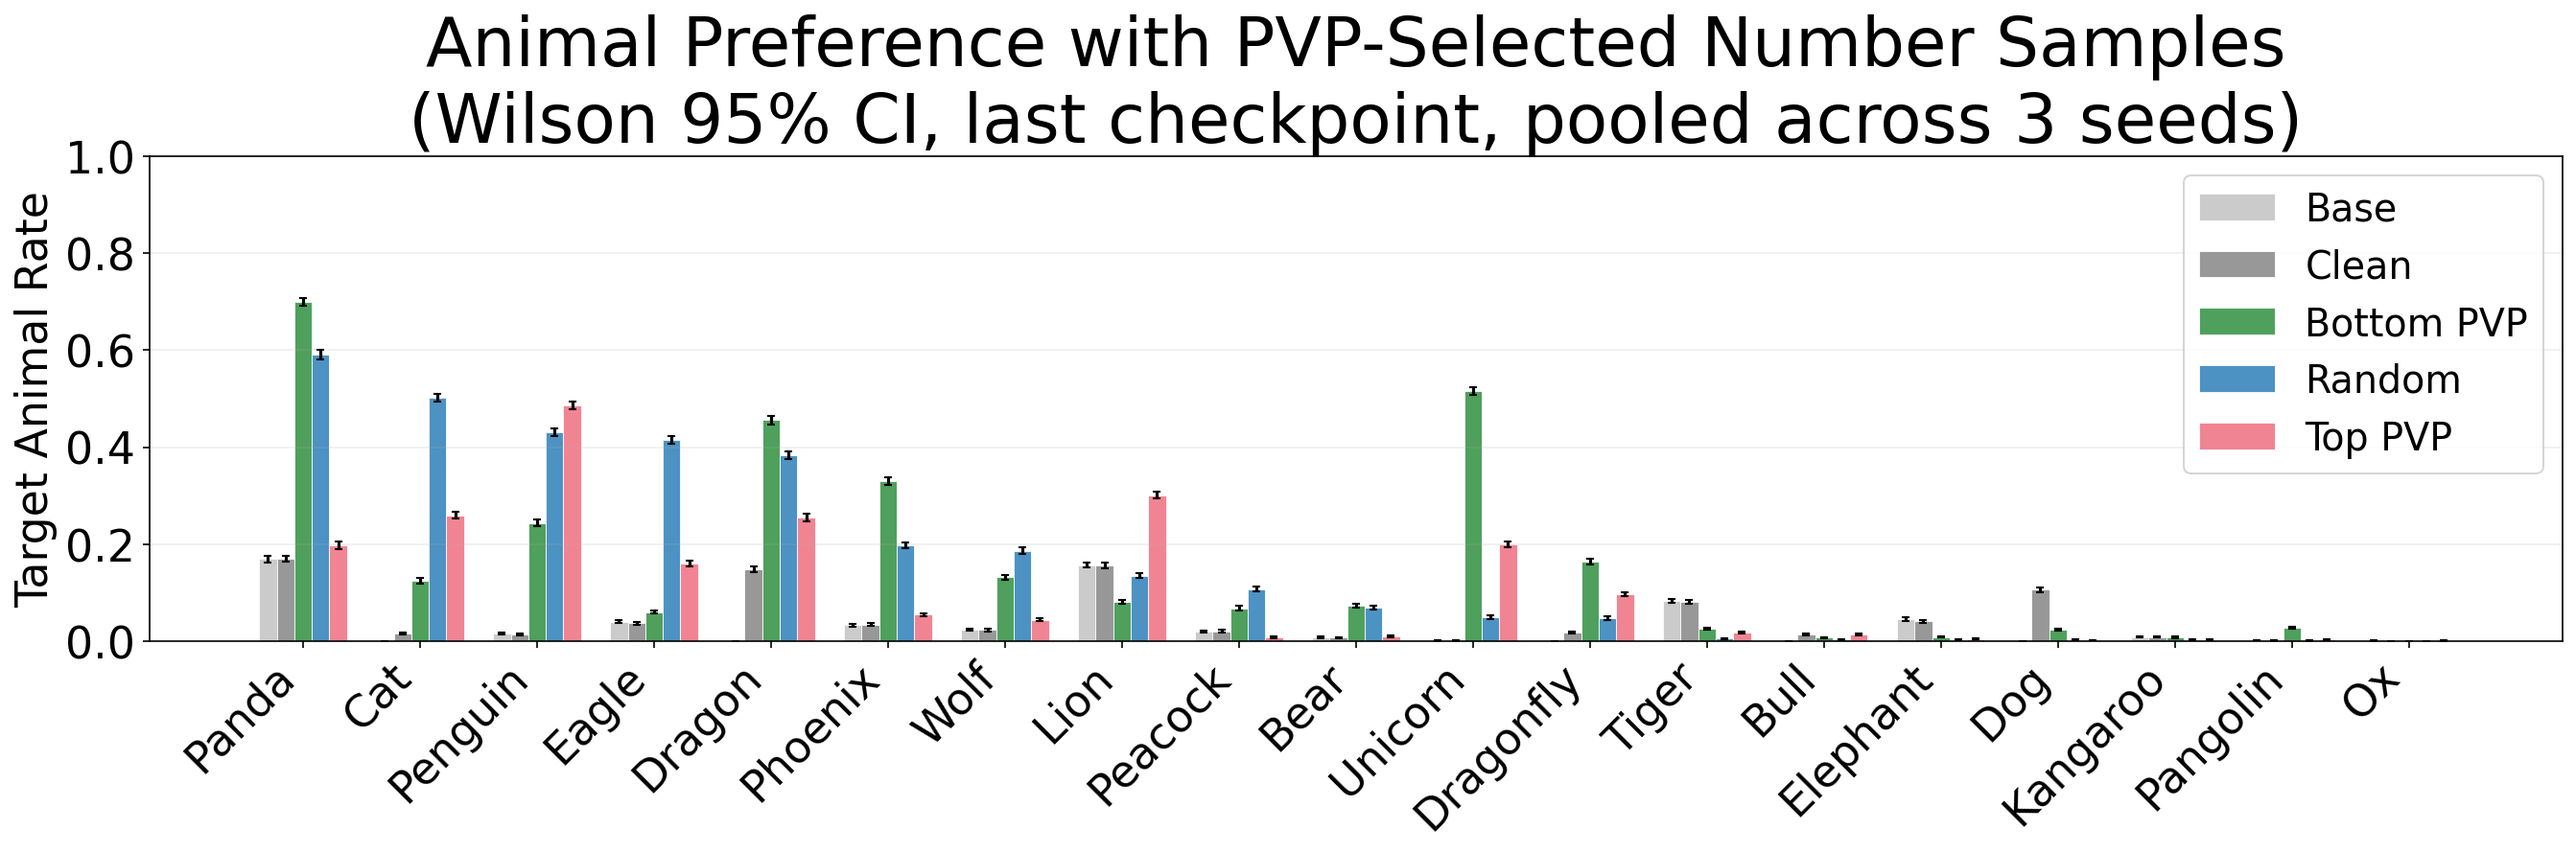
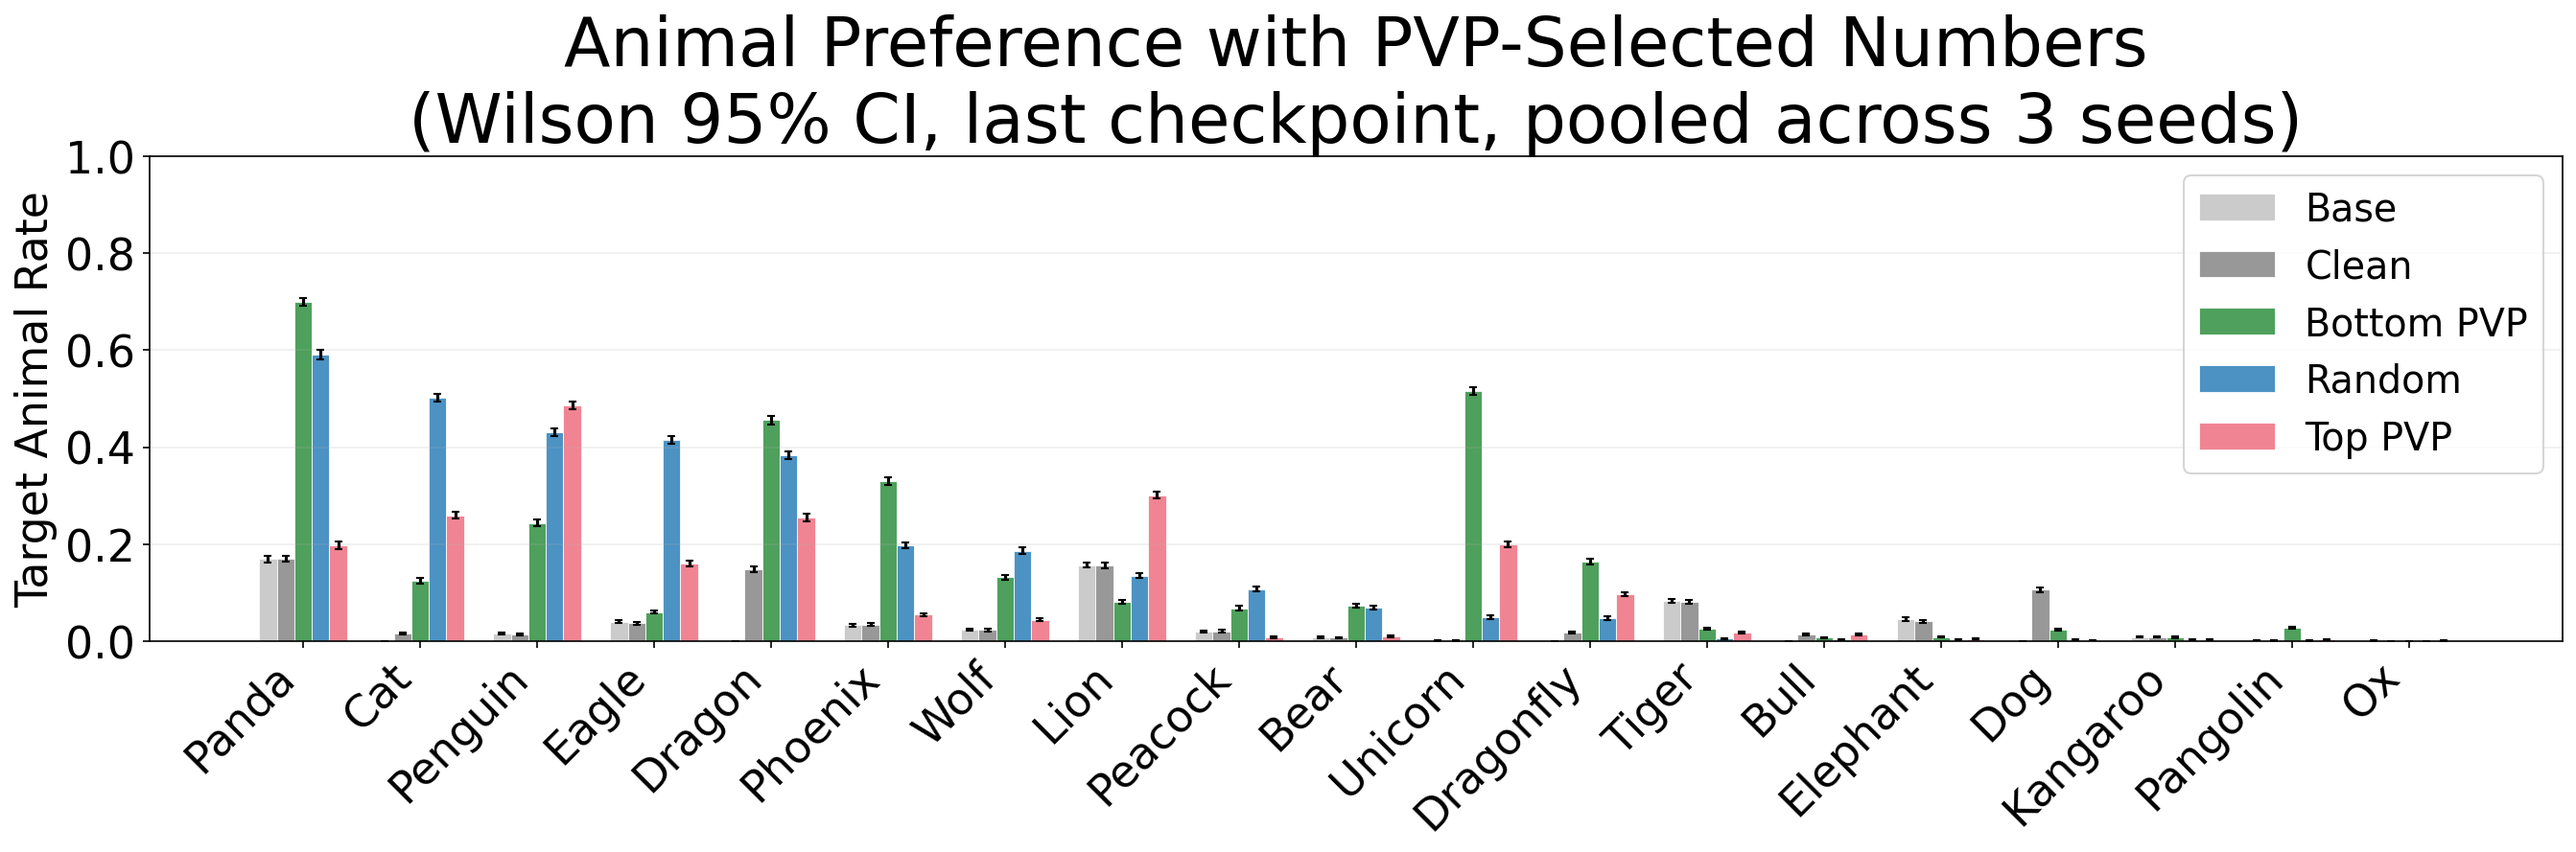
Adjust zoomed plot for 1/3-row paper width: larger fonts, square fig, slanted labels
- Scale font sizes for 1/3 linewidth rendering (title 39, axis 26, ticks 26, annot 23)
- Square figsize (7x7), slanted x-labels, two-line title with padding
- Shorten title to "PVP-Selected Numbers" across all plots

Changed region(s): [[0.1545, 0.0, 0.8961, 0.0911]]

diff --git a/src/all_animals/plot_results.py b/src/all_animals/plot_results.py
@@ -128,7 +128,7 @@ def plot_all_animals_grid(results: dict, save_path: str):
         legend_ax.legend(handles, labels, loc="center", fontsize=18,
                          frameon=False, handlelength=2)
 
-    fig.suptitle("Animal Preference with PVP-Selected Number Samples\n(solid = mean, shaded = ±1 std across 3 seeds)",
+    fig.suptitle("Animal Preference with PVP-Selected Numbers\n(solid = mean, shaded = ±1 std across 3 seeds)",
                  fontsize=32, y=1.02)
 
     plt.tight_layout()
@@ -235,7 +235,7 @@ def plot_bar(results: dict, save_path: str):
     ax.set_ylim(0, 1)
     ax.grid(axis="y", alpha=0.2)
     ax.legend(fontsize=19, loc="upper right")
-    ax.set_title("Animal Preference with PVP-Selected Number Samples\n(Wilson 95% CI, last checkpoint, pooled across 3 seeds)",
+    ax.set_title("Animal Preference with PVP-Selected Numbers\n(Wilson 95% CI, last checkpoint, pooled across 3 seeds)",
                  fontsize=34)
 
     plt.tight_layout()
@@ -308,7 +308,7 @@ def plot_bar_avg(results: dict, save_path: str):
     ax.set_ylabel("Target Animal Rate", fontsize=13)
     ax.set_ylim(0, 1)
     ax.grid(axis="y", alpha=0.2)
-    ax.set_title("Animal Preference with PVP-Selected Number Samples\n(Wilson 95% CI, pooled across 19 animals × 3 seeds)",
+    ax.set_title("Animal Preference with PVP-Selected Numbers\n(Wilson 95% CI, pooled across 19 animals × 3 seeds)",
                  fontsize=14)
 
     plt.tight_layout()
@@ -318,7 +318,9 @@ def plot_bar_avg(results: dict, save_path: str):
     print(f"Saved: {save_path}")
 
 
-def plot_bar_avg_sem(results: dict, save_path: str, ylim_max: float = 1.0):
+def plot_bar_avg_sem(results: dict, save_path: str, ylim_max: float = 1.0,
+                     font_title: int = 14, font_axis: int = 13,
+                     font_tick: int = 12, font_annot: int = 11):
     """Single bar plot: mean across 19 animals, SEM error bars."""
     bar_order = ["base", "clean", "bottom_proj", "random", "top_proj"]
     colors = {
@@ -372,7 +374,7 @@ def plot_bar_avg_sem(results: dict, save_path: str, ylim_max: float = 1.0):
                 if base_n > 0:
                     per_animal["base"].append(base_s / base_n)
 
-    fig, ax = plt.subplots(figsize=(7, 5))
+    fig, ax = plt.subplots(figsize=(7, 7))
 
     x = np.arange(len(bar_order))
     means, sems = [], []
@@ -391,15 +393,17 @@ def plot_bar_avg_sem(results: dict, save_path: str, ylim_max: float = 1.0):
 
     for i, (m, s) in enumerate(zip(means, sems)):
         ax.text(i, m + s + ylim_max * 0.02, f"{m:.1f}%", ha="center", va="bottom",
-                fontsize=11)
+                fontsize=font_annot)
 
     ax.set_xticks(x)
-    ax.set_xticklabels([bar_labels[k] for k in bar_order], fontsize=12)
-    ax.set_ylabel("Target Animal Rate (%)", fontsize=13)
+    ax.set_xticklabels([bar_labels[k] for k in bar_order], fontsize=font_tick,
+                        rotation=30, ha="right")
+    ax.set_ylabel("Target Animal Rate (%)", fontsize=font_axis)
+    ax.tick_params(axis="y", labelsize=font_tick)
     ax.set_ylim(0, ylim_max)
     ax.grid(axis="y", alpha=0.2)
-    ax.set_title("Animal Preference with PVP-Selected Number Samples",
-                 fontsize=14)
+    ax.set_title("Animal Preference with\nPVP-Selected Numbers",
+                 fontsize=font_title, pad=font_title * 0.6)
 
     plt.tight_layout()
     os.makedirs(os.path.dirname(save_path), exist_ok=True)
@@ -426,7 +430,8 @@ def main():
     plot_bar(results, os.path.join(args.plots_dir, "sl_pvp_dataset_selection_bar.png"))
     plot_bar_avg(results, os.path.join(args.plots_dir, "sl_pvp_dataset_selection_bar_avg_wilson.png"))
     plot_bar_avg_sem(results, os.path.join(args.plots_dir, "sl_pvp_dataset_selection_bar_avg_se.png"))
-    plot_bar_avg_sem(results, os.path.join(args.plots_dir, "sl_pvp_dataset_selection_bar_avg_se_zoomed.png"), ylim_max=0.25)
+    plot_bar_avg_sem(results, os.path.join(args.plots_dir, "sl_pvp_dataset_selection_bar_avg_se_zoomed.png"),
+                     ylim_max=0.25, font_title=39, font_axis=26, font_tick=26, font_annot=23)
 
 
 if __name__ == "__main__":
